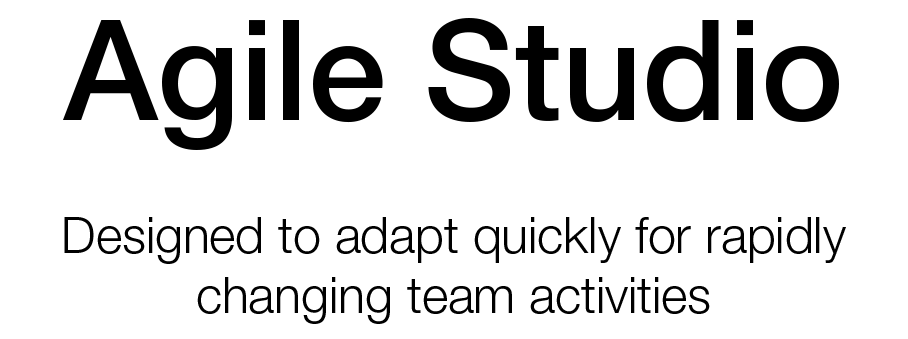
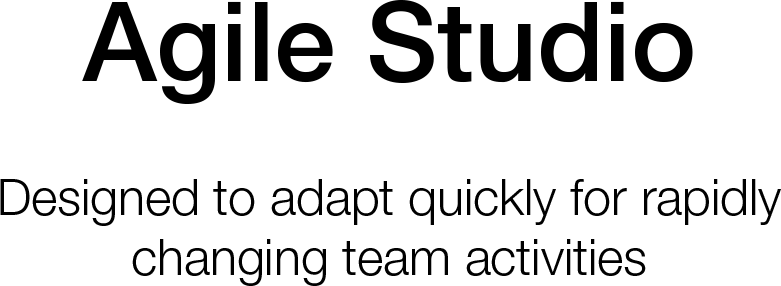
Update floorplan layou with new image sizes;

diff --git a/lib/scss/includes/floorplan.scss b/lib/scss/includes/floorplan.scss
@@ -17,11 +17,11 @@
 .template-floorplan {
 
   .title {
-    padding:px-to-vh( 20px ) 0 0;
+    padding:px-to-vh( 124px, 2560px ) 0 px-to-vh( 6px, 2560px );
     text-align:center;
 
     img {
-      height:px-to-vh( 86px );
+      height:px-to-vh( 286px, 2560px );
     }
   }
 
@@ -30,14 +30,14 @@
 		margin:0 auto;
 		overflow:hidden;
 		position:relative;
-		
+
 		&:after {
 			content:'';
 			clear:both;
 			display:block;
 		}
-		
-		
+
+
 //    display:grid;
     // grid-template-columns set in specific stylesheet.  i.e. floorplan--agile-studio
 //    grid-template-areas:". stage .  products .";
@@ -48,9 +48,7 @@
 		float:left;
 		margin-right:px-to-vh( 5px );
 		width:983px;
-		
-//    grid-area: stage;
-//    justify-self:right;
+
     position:relative;
     overflow:hidden;
 
@@ -78,7 +76,7 @@
         top:0;
         width:1px;
       }
-			
+
       .holder { // <a>
         background:#fff;
         display:block;
@@ -90,7 +88,6 @@
       }
 
       .point {
-        // opacity:0;
         position: absolute;
         transform:translateX( -50% ) translateY( -50% );
 
@@ -115,9 +112,6 @@
 
       &.in {
         width:100%;
-        // .point {
-        //   opacity:1;
-        // }
       }
     }
   }
@@ -153,19 +147,19 @@
 		background-size:100%;
 		background-repeat:no-repeat;
 		box-sizing:border-box;
-    margin:px-to-vh( 28px ) auto;
+    margin:px-to-vh( 114px, 2560px ) auto 0;
 		padding:0 px-to-vh( ( 158px - 50px ), 2560px ); // <= 50px is half of the handle
     position:relative;
 		height:px-to-vh( 150px, 2560px );
     width:px-to-vh( 1868px, 2560px );
-		
+
     .the-slider {
       height:50px;
 			pointer-events:none;
       position:relative;
       width:100%;
 			z-index:1;
-			
+
       .handle {
 				@include shadow;
         background-image: url('../img/ui/FloorplanSliderButton.png');
@@ -178,13 +172,13 @@
         position:absolute;
         top:px-to-vh( -30px, 2560px );
         width:px-to-vh( 100px, 2560px );
-				
+
         touch-action:none;
         perspective: 1000px;
         -webkit-backface-visibility: hidden;
       }
     }
-		
+
 		.slider-jumps {
 //			background:blue;
 			bottom:px-to-vh( -20px, 1000px );
@@ -192,15 +186,15 @@
 			right:px-to-vh( -20px, 1000px );
 			position:absolute;
 			top:px-to-vh( -20px, 1000px );
-			
+
 			a {
 				display:block;
 				float:left;
-				height:100%;	
+				height:100%;
 			}
 		}
 
-	
+
 		&.points-3 .slider-jumps a {
 			width:33.333%;
 		}

diff --git a/lib/css/app.css b/lib/css/app.css
@@ -62,8 +62,8 @@ nav .sleep:after { background-size: 100%; background-repeat: no-repeat; content:
 @keyframes pulse { 0% { box-shadow: 0 0 0 0 rgba(105, 239, 225, 0.6); }
   52% { box-shadow: 0 0 0 15px rgba(105, 239, 225, 0); }
   75% { box-shadow: 0 0 0 0 rgba(105, 239, 225, 0); } }
-.template-floorplan .title { padding: 2.99401vh 0 0; text-align: center; }
-.template-floorplan .title img { height: 12.87425vh; }
+.template-floorplan .title { padding: 4.84375vh 0 0.23438vh; text-align: center; }
+.template-floorplan .title img { height: 11.17188vh; }
 .template-floorplan .mid { margin: 0 auto; overflow: hidden; position: relative; }
 .template-floorplan .mid:after { content: ''; clear: both; display: block; }
 .template-floorplan .stage { float: left; margin-right: 0.7485vh; width: 983px; position: relative; overflow: hidden; }
@@ -79,7 +79,7 @@ nav .sleep:after { background-size: 100%; background-repeat: no-repeat; content:
 .template-floorplan .products .product { background: #fff; left: 0; opacity: 0; position: absolute; }
 .template-floorplan .products .product img { display: block; width: 100%; }
 .template-floorplan .products .product.in { opacity: 1; }
-.template-floorplan .slider { background-size: 100%; background-repeat: no-repeat; box-sizing: border-box; margin: 4.19162vh auto; padding: 0 4.21875vh; position: relative; height: 5.85938vh; width: 72.96875vh; }
+.template-floorplan .slider { background-size: 100%; background-repeat: no-repeat; box-sizing: border-box; margin: 4.45313vh auto 0; padding: 0 4.21875vh; position: relative; height: 5.85938vh; width: 72.96875vh; }
 .template-floorplan .slider .the-slider { height: 50px; pointer-events: none; position: relative; width: 100%; z-index: 1; }
 .template-floorplan .slider .the-slider .handle { -moz-box-shadow: 0 0 0.3125vh 0.19531vh rgba(24, 29, 67, 0.15); -webkit-box-shadow: 0 0 0.3125vh 0.19531vh rgba(24, 29, 67, 0.15); box-shadow: 0 0 0.3125vh 0.19531vh rgba(24, 29, 67, 0.15); background-image: url("../img/ui/FloorplanSliderButton.png"); background-size: 100%; border-radius: 50%; cursor: pointer; height: 3.90625vh; left: 0%; pointer-events: auto; position: absolute; top: -1.17188vh; width: 3.90625vh; touch-action: none; perspective: 1000px; -webkit-backface-visibility: hidden; }
 .template-floorplan .slider .slider-jumps { bottom: -2vh; left: -2vh; right: -2vh; position: absolute; top: -2vh; }
